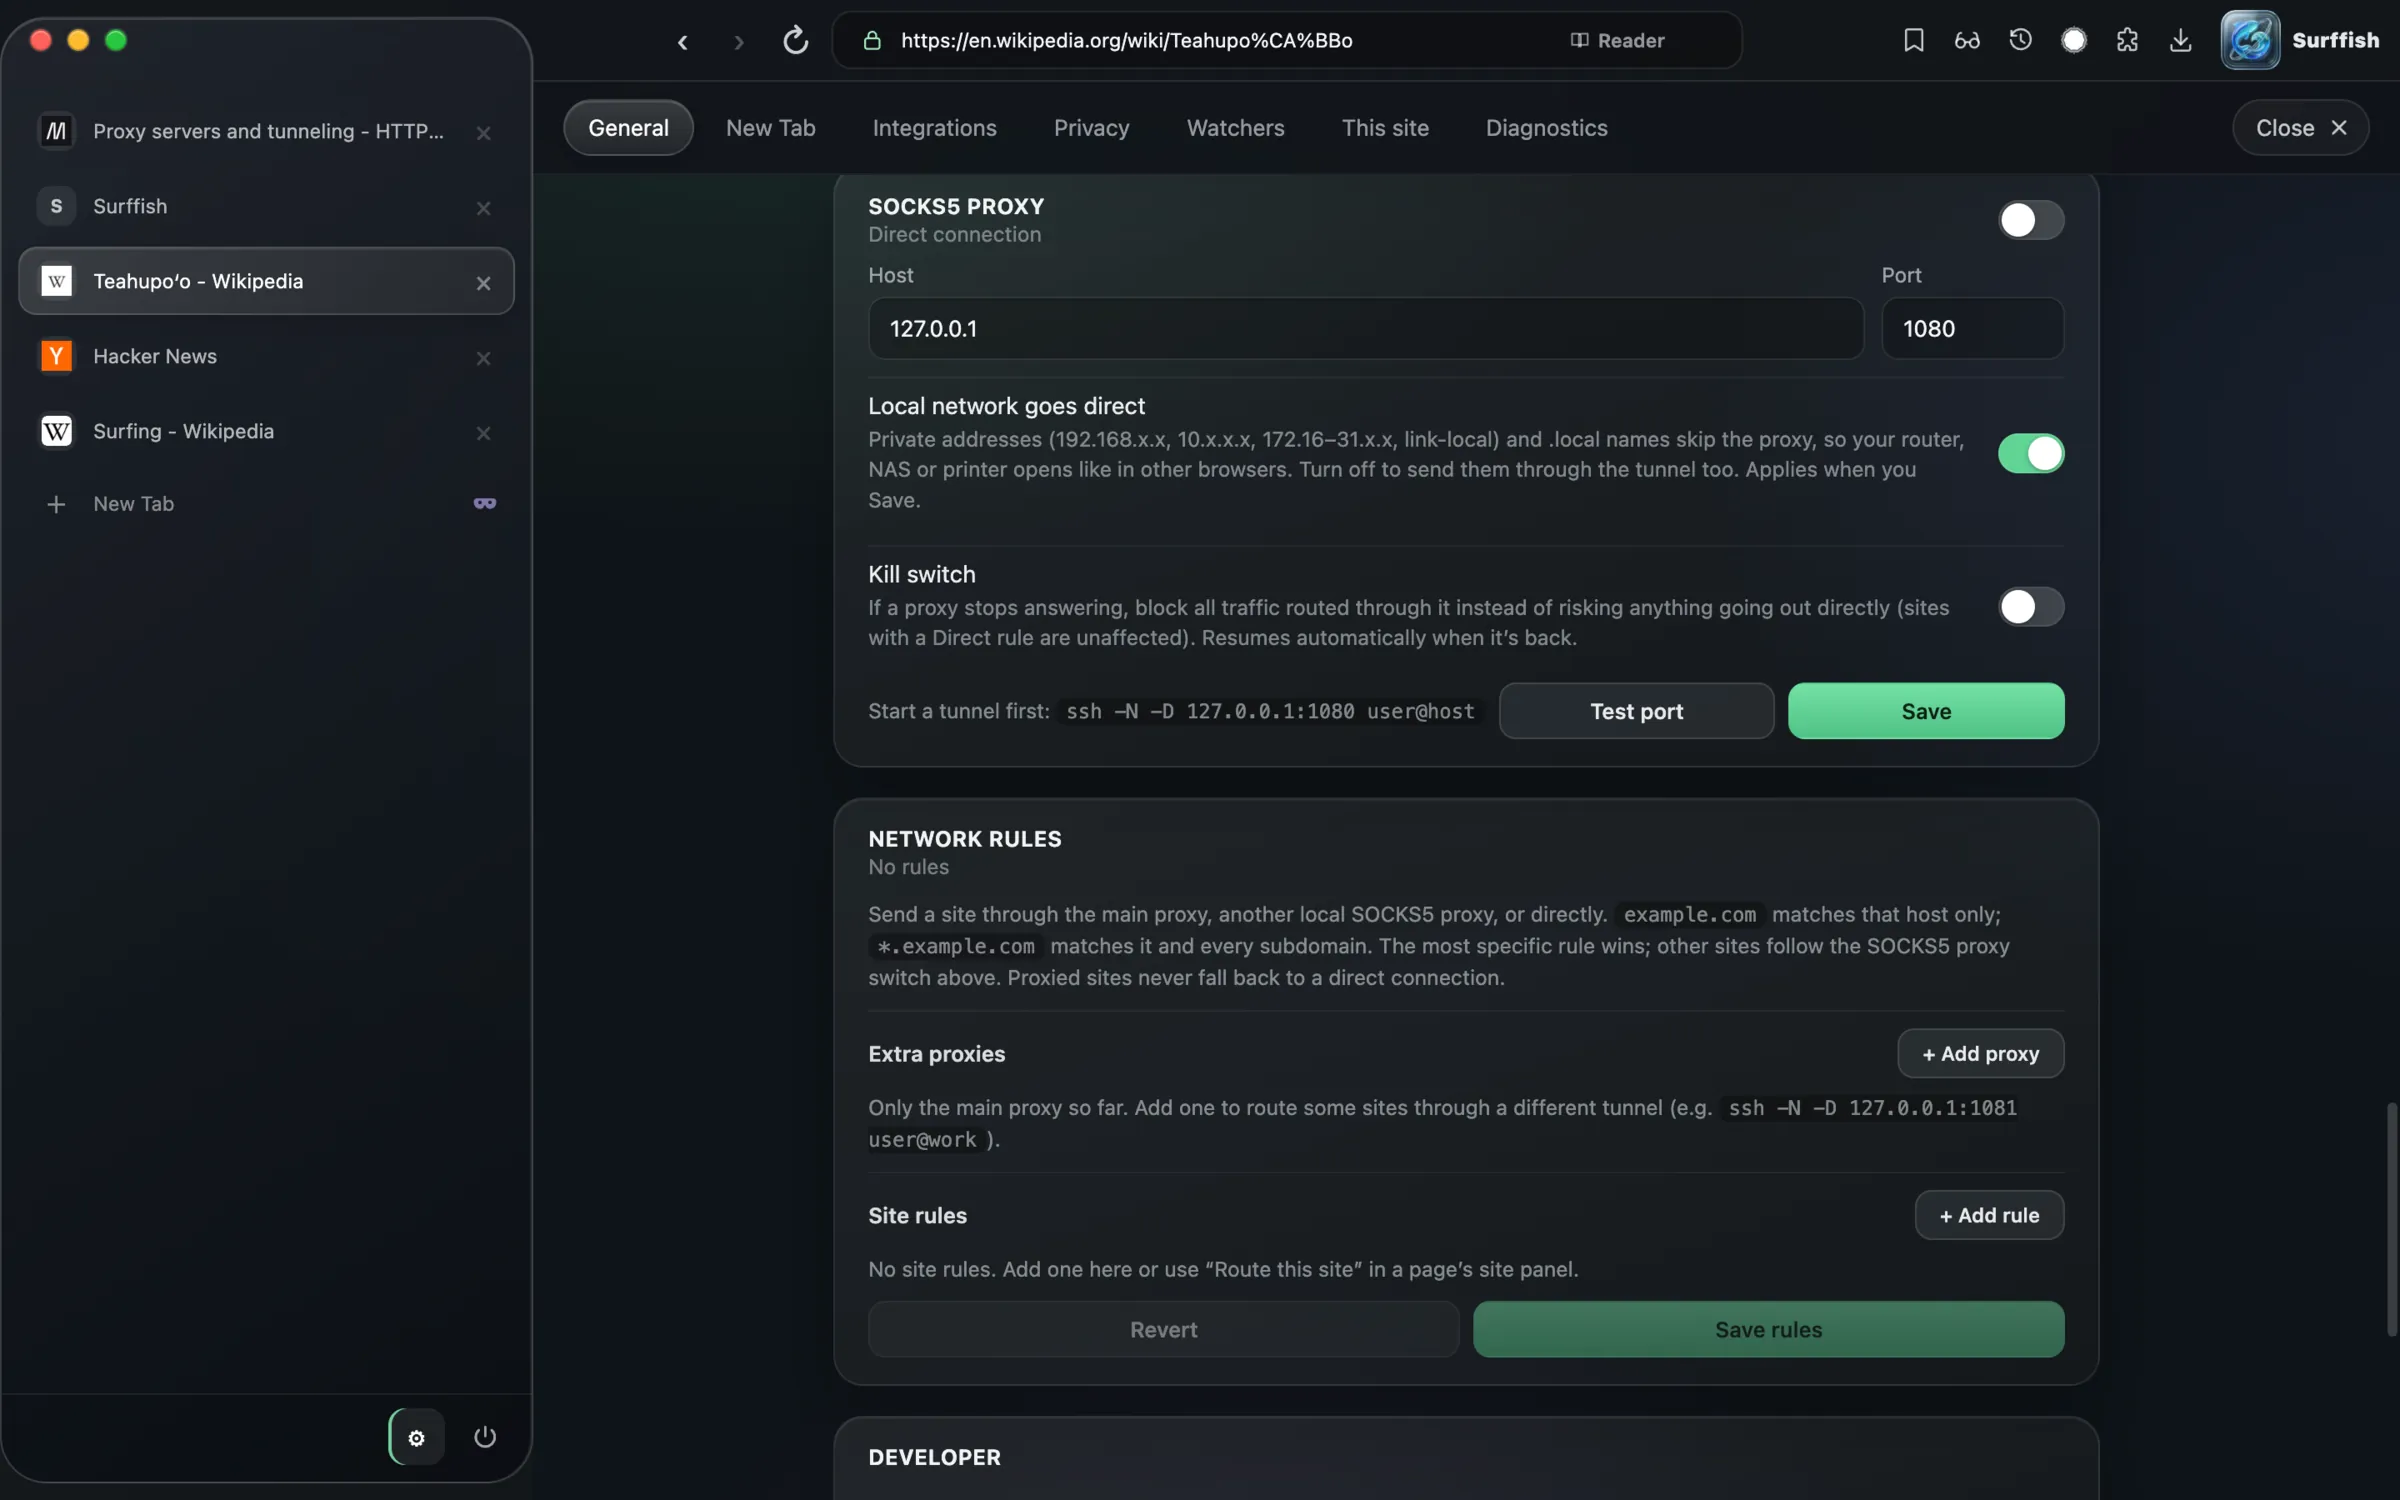
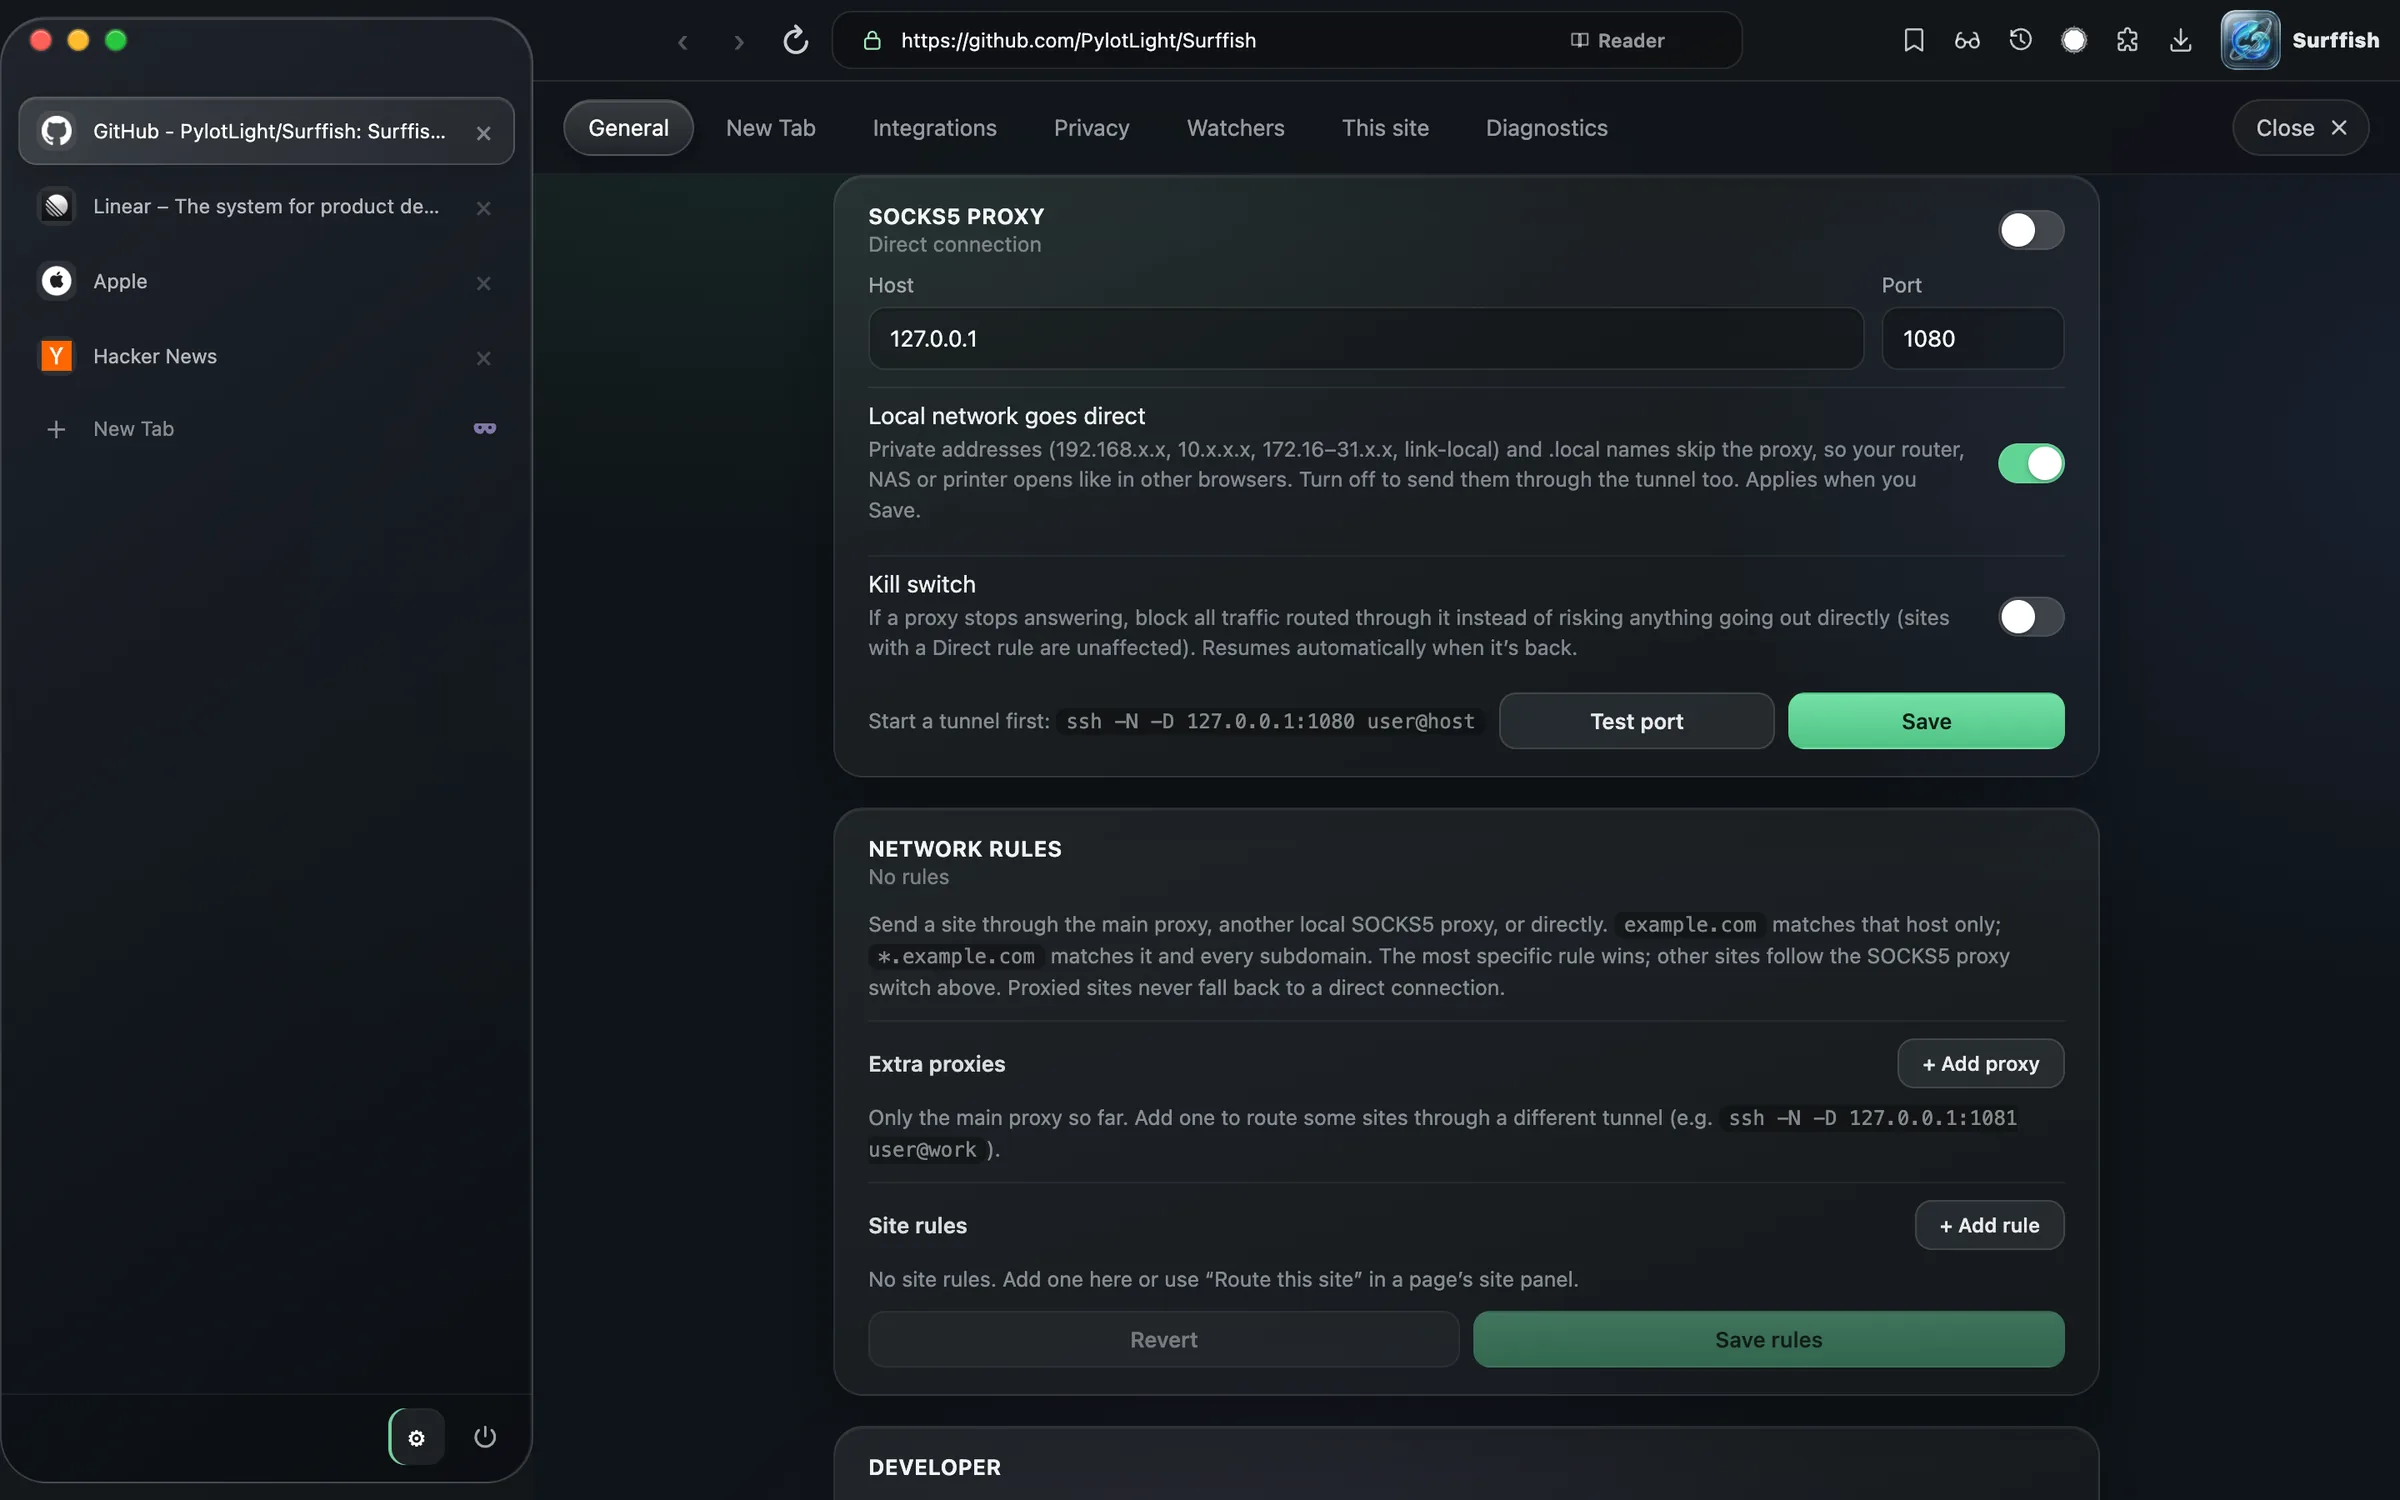
docs: reshoot readme screenshots on real sites (new tab hero, github/linear split, no wikipedia)
- hero is the New Tab page with the sidebar card open over it; caption updated
- palette over the Surffish repo, split github | linear, reader on a github blog post,
  history menu walks HN -> GitHub -> Linear -> Apple
- drop the raw mac pngs and the temporary push trigger

diff --git a/README.md b/README.md
@@ -22,9 +22,9 @@ Tabs in a glass sidebar, uBlock Origin's filter lists built in, and a SOCKS5 swi
 
 <br>
 
-<img src="docs/assets/hero.webp" alt="Surffish showing a Wikipedia article with the glass tab sidebar open on the left" width="100%">
+<img src="docs/assets/hero.webp" alt="Surffish New Tab page with a landscape photo, the glass tab sidebar open over it listing GitHub, Linear, Apple and Hacker News tabs" width="100%">
 
-<sub>Wikipedia in Surffish, with the tab sidebar pinned open.</sub>
+<sub>The New Tab page, with the tab sidebar card slid out over it.</sub>
 
 </div>
 
@@ -51,16 +51,16 @@ Surffish isn't signed or notarized yet, so the first launch needs one extra step
 
 <table>
   <tr>
-    <td width="50%"><img src="docs/assets/new-tab.webp" alt="New Tab page with a landscape photo, clock and favourite sites"><br><b>New Tab.</b> A rotating nature photo, the time, and your pinned and most visited sites.</td>
-    <td width="50%"><img src="docs/assets/command-palette.webp" alt="Command palette open with the query split"><br><b>Command palette (⌘K).</b> Every command, open tab and search engine in one box.</td>
+    <td width="50%"><img src="docs/assets/new-tab.webp" alt="New Tab page with a landscape photo, clock and favourite sites, sidebar hidden"><br><b>New Tab.</b> A rotating nature photo, the time, and your pinned and most visited sites.</td>
+    <td width="50%"><img src="docs/assets/command-palette.webp" alt="Command palette open over the Surffish GitHub repo with the query split"><br><b>Command palette (⌘K).</b> Every command, open tab and search engine in one box.</td>
   </tr>
   <tr>
-    <td><img src="docs/assets/split-view.webp" alt="Two pages side by side in split view"><br><b>Split view (⇧⌘=).</b> Two tabs side by side with a draggable divider.</td>
+    <td><img src="docs/assets/split-view.webp" alt="The Surffish GitHub repo and linear.app side by side in split view"><br><b>Split view (⇧⌘=).</b> Two tabs side by side with a draggable divider.</td>
     <td><img src="docs/assets/glance.webp" alt="A link preview sheet floating over Hacker News"><br><b>Glance.</b> Shift-click a link to peek at it in a sheet. Esc closes it, ⌘↩ keeps it as a tab.</td>
   </tr>
   <tr>
-    <td><img src="docs/assets/reader.webp" alt="Reader view of a Wikipedia article"><br><b>Reader view (⌥⌘R).</b> Just the article, with your own type size and theme.</td>
-    <td><img src="docs/assets/history-menu.webp" alt="Back button history menu listing recent pages"><br><b>Back/Forward history.</b> Hold or right-click Back or Forward to jump several pages at once.</td>
+    <td><img src="docs/assets/reader.webp" alt="Reader view of a GitHub blog post"><br><b>Reader view (⌥⌘R).</b> Just the article, with your own type size and theme.</td>
+    <td><img src="docs/assets/history-menu.webp" alt="Back button history menu listing Linear, GitHub, Hacker News and Apple"><br><b>Back/Forward history.</b> Hold or right-click Back or Forward to jump several pages at once.</td>
   </tr>
   <tr>
     <td colspan="2"><img src="docs/assets/settings-proxy.webp" alt="Settings showing the SOCKS5 proxy, local network and kill switch options, and network rules"><br><b>SOCKS5 and network rules.</b> One local proxy for everything, extra proxies or Direct for specific sites, LAN addresses direct, and a kill switch.</td>
